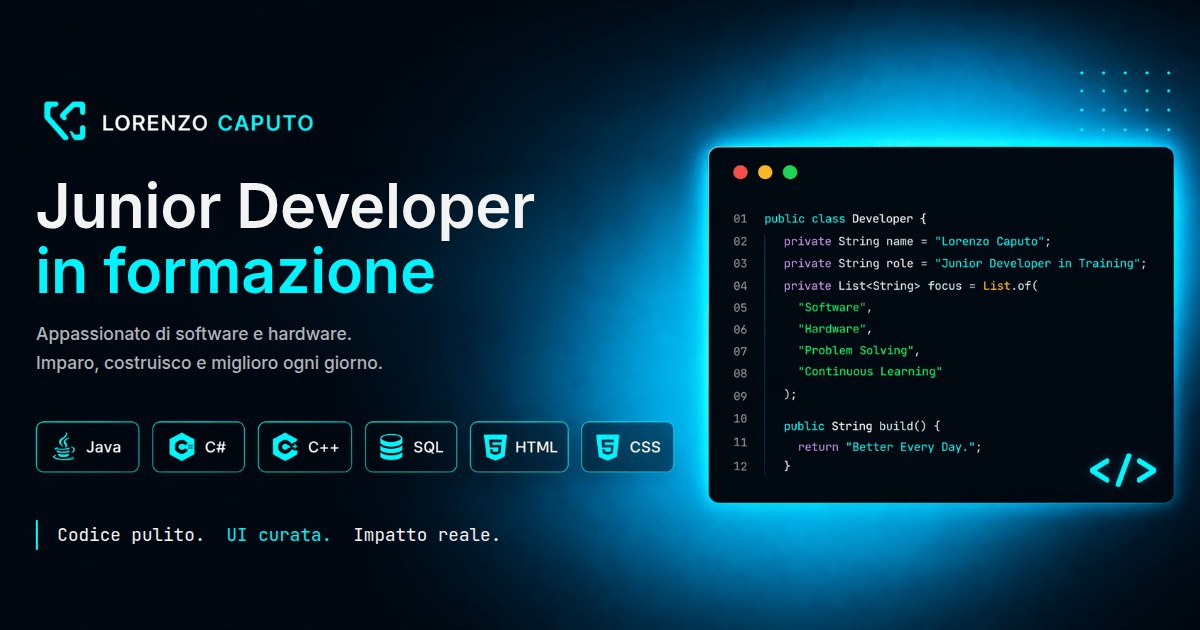
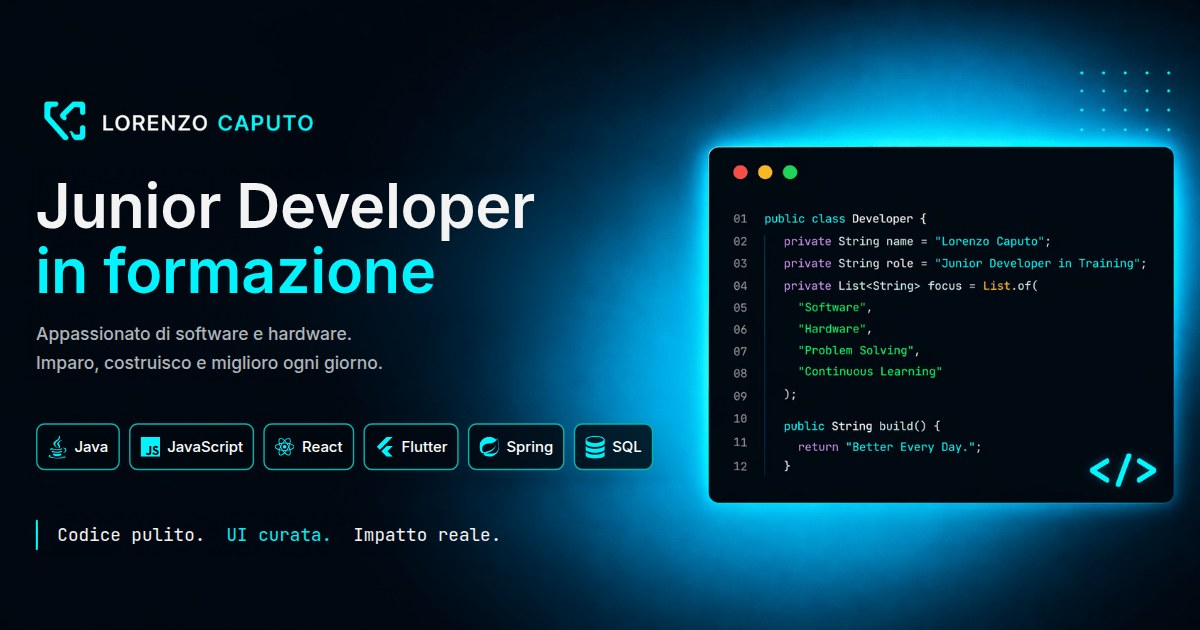
Anteprime social con le competenze chiave
Nelle immagini di anteprima (italiano e inglese) le etichette tecnologiche
ora sono Java, JavaScript, React, Flutter, Spring e SQL, in linea con le
competenze del portfolio e del profilo GitHub.

Changed region(s): [[0.0308, 0.6635, 0.5858, 0.754]]

diff --git a/scripts/social-preview/render.js b/scripts/social-preview/render.js
@@ -23,6 +23,16 @@ const previews = {
   },
 }
 
+// ===== Competenze chiave mostrate nell'immagine =====
+const skills = [
+  ['Java', 'java.png'],
+  ['JavaScript', 'javascript.svg'],
+  ['React', 'react.svg'],
+  ['Flutter', 'flutter.svg'],
+  ['Spring', 'spring.svg'],
+  ['SQL', 'sql.png'],
+]
+
 // ===== Risorse: sfondo e font =====
 const dataUrl = async (path, type) => `data:${type};base64,${(await readFile(resolve(root, path))).toString('base64')}`
 
@@ -32,6 +42,12 @@ const assets = {
   inter600: await dataUrl('node_modules/@fontsource/inter/files/inter-latin-600-normal.woff2', 'font/woff2'),
   mono: await dataUrl('node_modules/@fontsource/jetbrains-mono/files/jetbrains-mono-latin-400-normal.woff2', 'font/woff2'),
 }
+
+const icons = Object.fromEntries(
+  await Promise.all(
+    skills.map(async ([, file]) => [file, await dataUrl(`scripts/social-preview/icons/${file}`, file.endsWith('.svg') ? 'image/svg+xml' : 'image/png')]),
+  ),
+)
 
 // ===== Impaginazione (coordinate dell'immagine sorgente 1774×887) =====
 const page = ({ headline, subtitle, tagline }) => `<!doctype html>
@@ -59,6 +75,27 @@ const page = ({ headline, subtitle, tagline }) => `<!doctype html>
       .subtitle.second { top: 499px; }
       .tagline { left: 123px; top: 740px; font: 400 24.8px/1 Mono, monospace; color: #f4f3f3; }
       .tagline span { color: #01eef6; }
+      .skills { left: 93px; top: 596px; display: flex; gap: 13px; }
+      .skill {
+        display: flex;
+        align-items: center;
+        gap: 10px;
+        box-sizing: border-box;
+        height: 66px;
+        padding: 0 14px;
+        border: 2px solid rgb(8, 178, 172);
+        border-radius: 12px;
+        background: rgba(1, 7, 15, 0.82);
+        font: 500 21px/1 Inter, sans-serif;
+        color: #fff;
+      }
+      .skill i {
+        width: 28px;
+        height: 33px;
+        background: #01f4fd;
+        -webkit-mask: var(--icon) center / contain no-repeat;
+        mask: var(--icon) center / contain no-repeat;
+      }
     </style>
   </head>
   <body>
@@ -67,6 +104,9 @@ const page = ({ headline, subtitle, tagline }) => `<!doctype html>
       <p class="headline second">${headline[1]}</p>
       <p class="subtitle first">${subtitle[0]}</p>
       <p class="subtitle second">${subtitle[1]}</p>
+      <div class="skills">
+        ${skills.map(([label, file]) => `<span class="skill"><i style="--icon: url('${icons[file]}')"></i>${label}</span>`).join('')}
+      </div>
       <p class="tagline">${tagline[0]}&nbsp; <span>${tagline[1]}</span>&nbsp; ${tagline[2]}</p>
     </div>
   </body>
